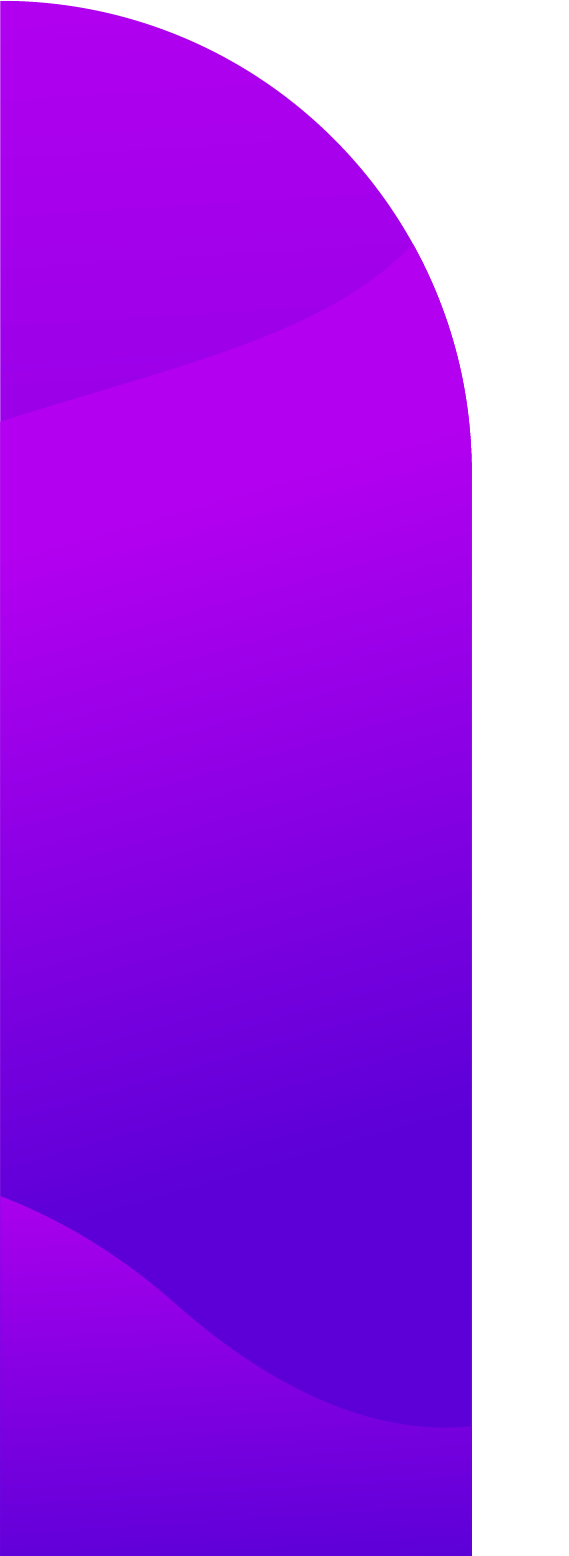
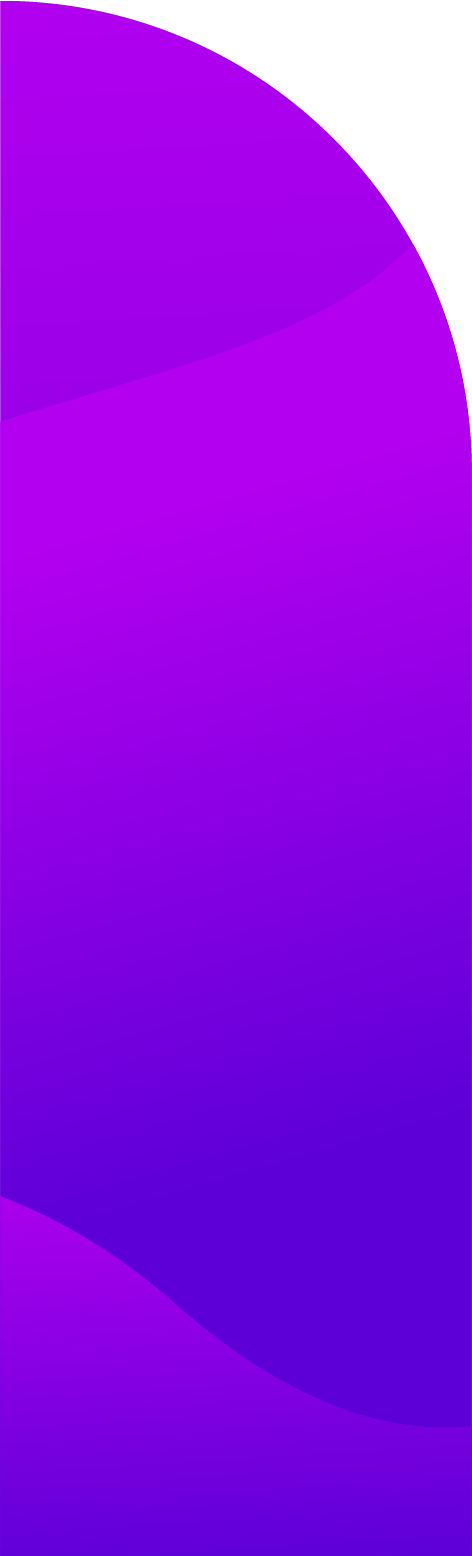
feat: add styles for right content

Changed region(s): [[0.089, 0.0, 1.0, 1.0]]

diff --git a/index.html b/index.html
@@ -20,6 +20,9 @@
                 <li class="nav-item"><a href="#contacts" class="nav-link">Contacts</a></li>
                 <li class="nav-item"><a href="#summary" class="nav-link">Summary</a></li>
                 <li class="nav-item"><a href="#skills" class="nav-link">Skills</a></li>
+                <li class="nav-item"><a href="#code" class="nav-link">Code</a></li>
+                <li class="nav-item"><a href="#projects" class="nav-link">Projects</a></li>
+                <li class="nav-item"><a href="#courses" class="nav-link">Courses</a></li>
             </ul>
         </nav>
     </div>
@@ -32,9 +35,6 @@
                      alt="avatar">
             </section>
             <section class="section" id="contacts">
-                <h2 class="section-title contacts">
-                    Contacts
-                </h2>
                 <ul class="contact-list">
                     <li class="contact-item"><img src="assets/email.png" alt="email"><a href="mailto:alexgrist133@gmail.com" target="_blank">alexgrist133@gmail.com</a></li>
                     <li class="contact-item"><img src="assets/linkedin.png" alt="linkedin"><a href="https://www.linkedin.com/in/%D0%B4%D0%B0%D0%BD%D0%B8%D0%B8%D0%BB-%D1%81%D1%82%D0%B0%D1%81%D1%83%D0%BB%D0%B5%D0%B2%D0%B8%D1%87-378513192/" target="_blank">LinkedIn</a></li>
@@ -44,32 +44,32 @@
             </section>
             <section class="section" id="education">
                 <h2 class="section-title">Education</h2>
-                <p class="education">College of Business and Law</p>
+                <p class="education left-content">College of Business and Law</p>
             </section>
             <section class="section" id="skills">
                 <h2 class="section-title">Skills</h2>
-                <ul class="skills">
-                    <li>Web-development: HTML5, CSS3, JavaScript, Typescript</li>
-                    <li>Frameworks and libraries: React.JS, MaterialUI</li>
-                    <li>Desktop-development: C#,C++</li>
-                    <li>Database: MicrosoftSQL</li>
-                    <li>Version control: GIT, Github</li>
+                <ul class="skills left-content">
+                    <li>Web-development:<span class="skill-items"> CSS3, JavaScript, Typescript</span></li>
+                    <li>Frameworks and libraries:<span class="skill-items"> React.JS, MaterialUI</span></li>
+                    <li>Desktop-development:<span class="skill-items"> C#,C++</span></li>
+                    <li>Database:<span class="skill-items"> MicrosoftSQL</span></li>
+                    <li>Version control:<span class="skill-items"> GIT, Github</span> </li>
                 </ul>
             </section>
             <section class="section" id="languages">
                 <h2 class="section-title">Languages</h2>
-                <p>English - A2</p>
+                <p class="left-content language">English - <span class="skill-items">A2</span></p>
             </section>
         </div>
 
         <div class="right-container">
             <section class="section profile-title" id="profile">
-                <h1 class="section-title">Daniil Stasulevich</h1>
-                <h3>Junior Front-End Developer</h3>
+                <h1 class="initials"><span class="first-name">Daniil</span> <span class="last-name">Stasulevich</span></h1>
+                <h3 class="profile">Junior Front-End Developer</h3>
             </section>
             <section class="section summary" id="summary">
                 <h2 class="section-title">summary</h2>
-                <p>
+                <p class="summary-text">
                     I am a Front-end developer, programming since 2019.
                     I like JavaScript, React, HTML, CSS.
                     Having programming experience in C#, Unity.
@@ -78,7 +78,7 @@
                 </p>
             </section>
             <section class="section code-section" id="code">
-                <h2 class="section-title">code</h2>
+                <h2 class="section-title">Сode</h2>
                 <pre class="code-section">
                 <code>
                     function compareDataColors(data, point, color) {
@@ -91,18 +91,18 @@
                 </pre>
             </section>
             <section class="section" id="courses">
-                <h2 class="section-title">Courses</h2>
-                <ul>
+                <h2 class="section-title courses">Courses</h2>
+                <ul class="right-content courses-list">
                     <li>RSSchool - JavaScript/Front-end 2019</li>
                     <li>RSSchool - JavaScript/Front-end 2022</li>
                 </ul>
             </section>
             <section class="section" id="projects">
-                <h2 class="section-title">Projects</h2>
-                <ul>
-                    <li>https://alexgrist14.github.io/Responsive_Website/</li>
-                    <li>https://kozjar.github.io/Piskel-clone/</li>
-                    <li>https://alexgrist14.github.io/NeutronMail/</li>
+                <h2 class="section-title project-title">Projects</h2>
+                <ul class="right-content">
+                    <li><a href="https://alexgrist14.github.io/Responsive_Website/">Responsive Website</a></li>
+                    <li><a href="https://kozjar.github.io/Piskel-clone/">Piskel clone</a></li>
+                    <li><a href="https://alexgrist14.github.io/NeutronMail/">NeutronMail</a></li>
                 </ul>
             </section>
         </div>
@@ -110,7 +110,14 @@
     </div>
 </main>
 <footer class="footer">
-    <div class="container"></div>
+    <div class="container">
+        <div class="footer-container">
+        <p class="date-of-production">© 2022</p>
+        <a class="github" href="https://github.com/alexgrist14" target="_blank">alexgrist14</a>
+            <div class="rss-course"><a href="https://rs.school/js/" target="_blank"><img src="./assets/rss.svg" alt="course"></a></div>
+
+        </div>
+    </div>
 </footer>
 </body>
 </html>

diff --git a/styles/main.css b/styles/main.css
@@ -1,29 +1,29 @@
 
 
 .main-container {
-    flex-direction: column;
+    flex-direction: row;
     display: flex;
 }
 
 .section {
     width: 100%;
-    /*width: 70%;*/
+
 }
 .left-container{
     display: flex;
     padding-top: 100px;
-    width: 100%;
+    width: 450px;
     flex-shrink: 0;
     background-image: url("../assets/left-container2.png");
     background-size: auto;
+    background-repeat: no-repeat;
     align-items: center;
     flex-direction: column;
 }
 .right-container{
     display: flex;
     flex-direction: column;
-    justify-content: flex-start;
-    flex-grow: 1;
+
 }
 .avatar{
     position: absolute;
@@ -31,8 +31,6 @@
     left: 0;
     height: 100%;
     transform: translateX(-25%);
-    /*width: 100%;*/
-    /*height: 100%;*/
 }
 
 .avatar-section{
@@ -41,14 +39,10 @@
     height: 260px;
     position: relative;
     border: 10px solid white;
-    border-radius: 30px;
+    border-radius: 0 200px 0 60px;
     align-self: start;
     margin-left: 30px;
 }
-
-.code-section{
-}
-
 .contact-list img{
     width: 25px;
     height: 25px;
@@ -56,11 +50,12 @@
 .left-container{
     color: white;
 }
-.section-title{
+.left-container .section-title{
     background-color: white;
     color: #604A9E;
-    height: 50px;
-
+    height: 60px;
+    width: 80%;
+    padding-top: 15px;
     text-align: center;
     border-radius: 0 70px 0 0;
     margin-top: 100px;
@@ -80,14 +75,80 @@
     gap: 8px;
     align-items: center;
 }
+.contact-list a {
+    color: white;
+}
+.contact-list a:hover{
+    color: #c32ecc;
+}
+.left-content{
+    margin: 50px 0 0 100px;
+}
+.skills{
+    margin-left: 50px;
+    line-height: 2.5ch;
+    font-size: 90%;
+    padding: 0;
+}
+.skill-items{
+    color: #ea8143;
+}
+.language{
+    margin-left: 150px;
+}
+.initials{
+    font-size: 56px;
+    text-align: center;
+}
+.profile{
+    color: #B400F0;
+}
+.profile-title{
+    text-align: center;
+}
+.first-name{
+    color: #B400F0;
+}
+.last-name{
+    color: #5C00D7;
+    font-weight: bolder;
+}
 
-@media screen and (min-width: 640px) {
+.right-container .section-title{
+    background-color: #5C00D7;
+    color: white;
+    height: 60px;
+    width: 400px;
+    padding-top: 15px;
+    text-align: center;
+    border-radius: 0 70px 0 0;
+    margin-top: 125px;
+}
+.right-container a{
+    color: #2a33bd;
+}
+.right-container a:hover{
+    color: #9f80ef;
+}
+.courses{
+    margin-top: 0 !important;
+}
+
+.summary-text{
+    width: 70%;
+    margin-top: 100px;
+    margin-left: 200px;
+    line-height: 3ch;
+}
+.project-title{
+    margin-top: 0 !important;
+}
+.right-content{
+    margin-left: 170px;
+}
+@media screen and (max-width: 640px) {
     .main-container {
-        flex-direction: row;
-    }
-
-    .left-container{
-        width: 300px;
+        flex-direction: column;
     }
 
     .avatar-section {

diff --git a/styles/footer.css b/styles/footer.css
@@ -1,0 +1,33 @@
+.footer-container{
+   display: flex;
+    color: white;
+    font-size: 20px;
+    align-items: center;
+    height: 105px;
+    margin: 0;
+    padding: 0;
+
+    background-color: #5C00D7;
+}
+.footer a{
+    color: white;
+}
+.github{
+    margin-left: 30px;
+}
+.github:hover{
+    color: #766def;
+}
+.date-of-production{
+    margin: 0;
+}
+.date-of-production{
+    margin-left: 50px;
+}
+.rss-course img{
+    width: 100px;
+    height: 100px;
+}
+.rss-course{
+    margin-left: 1000px;
+}

diff --git a/styles/header.css b/styles/header.css
@@ -3,7 +3,7 @@
     justify-content: flex-end;
 }
 .nav{
-    width: 50%;
+    width: 600px;
     background-color: #7d1ca6;
     border-radius: 0 0 0 150px;
     padding: 20px;
@@ -19,6 +19,7 @@
     margin: 0;
 }
 .nav-link {
+    color: white;
     line-height: 50px;
 }
 

diff --git a/styles/style.css b/styles/style.css
@@ -16,7 +16,7 @@ html {
 
 body {
     font-family: 'Montserrat', sans-serif;
-    font-size: 16px;
+    font-size: 18px;
     min-height: 100vh;
     margin: 0;
     padding: 0;
